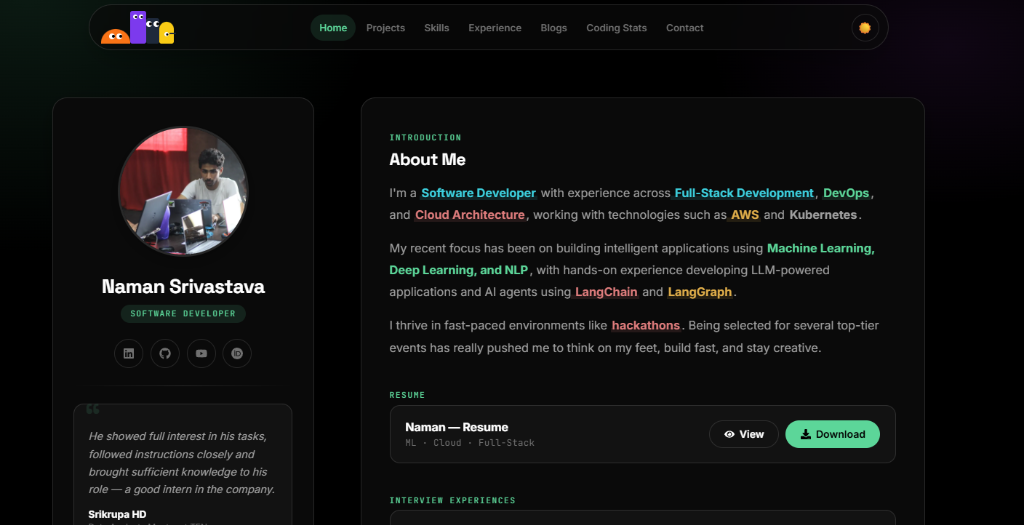
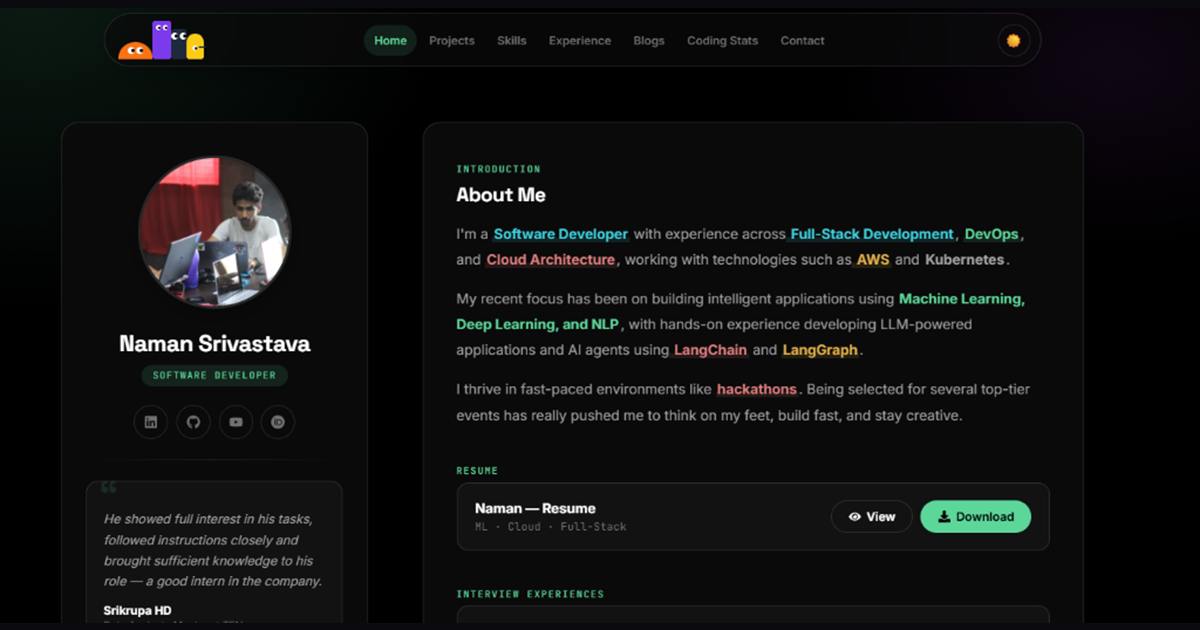
lets see

diff --git a/public/index.html b/public/index.html
@@ -27,6 +27,8 @@
   <meta property="og:type" content="website" />
   <meta property="og:url" content="https://namansrivastava.is-a.dev/" />
   <meta property="og:image" content="https://namansrivastava.is-a.dev/portfolio.png" />
+  <meta property="og:image:width" content="1200" />
+  <meta property="og:image:height" content="630" />
   <meta property="article:author" content="Naman Srivastava" />
   <meta property="article:published_time" content="2024-06-05T00:00:00+05:30" />
   <meta name="twitter:card" content="summary_large_image" />
